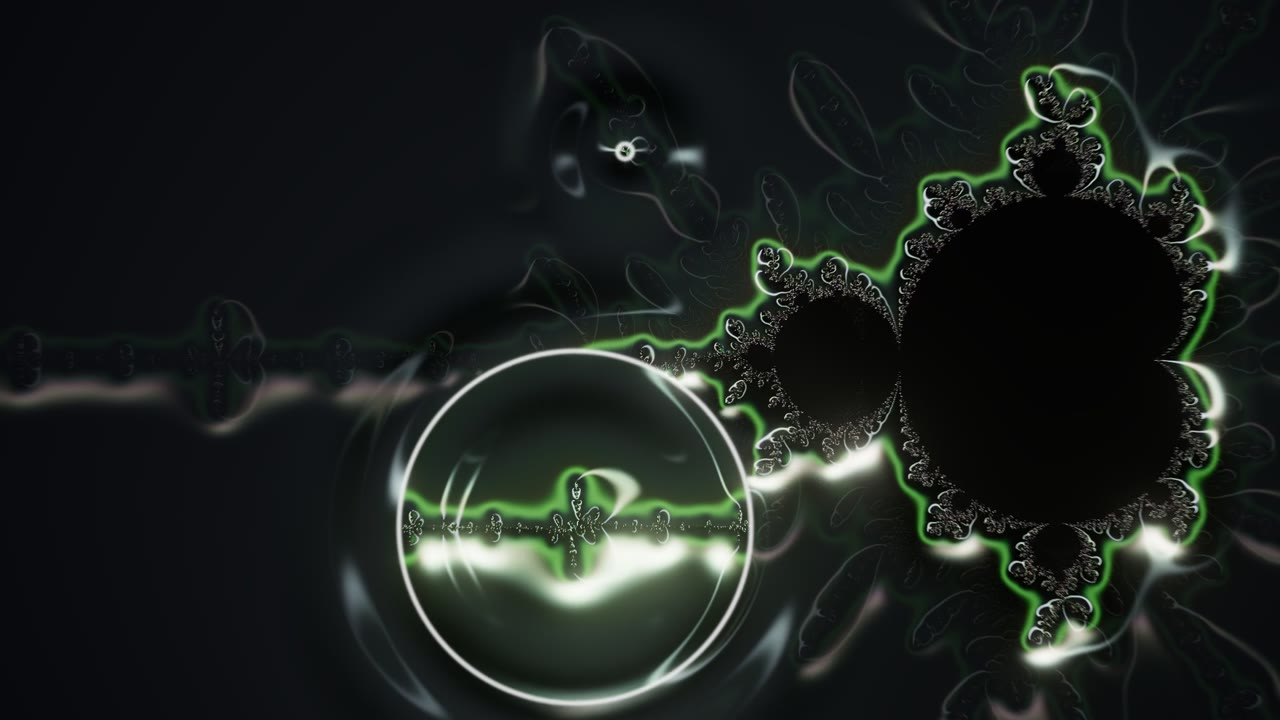
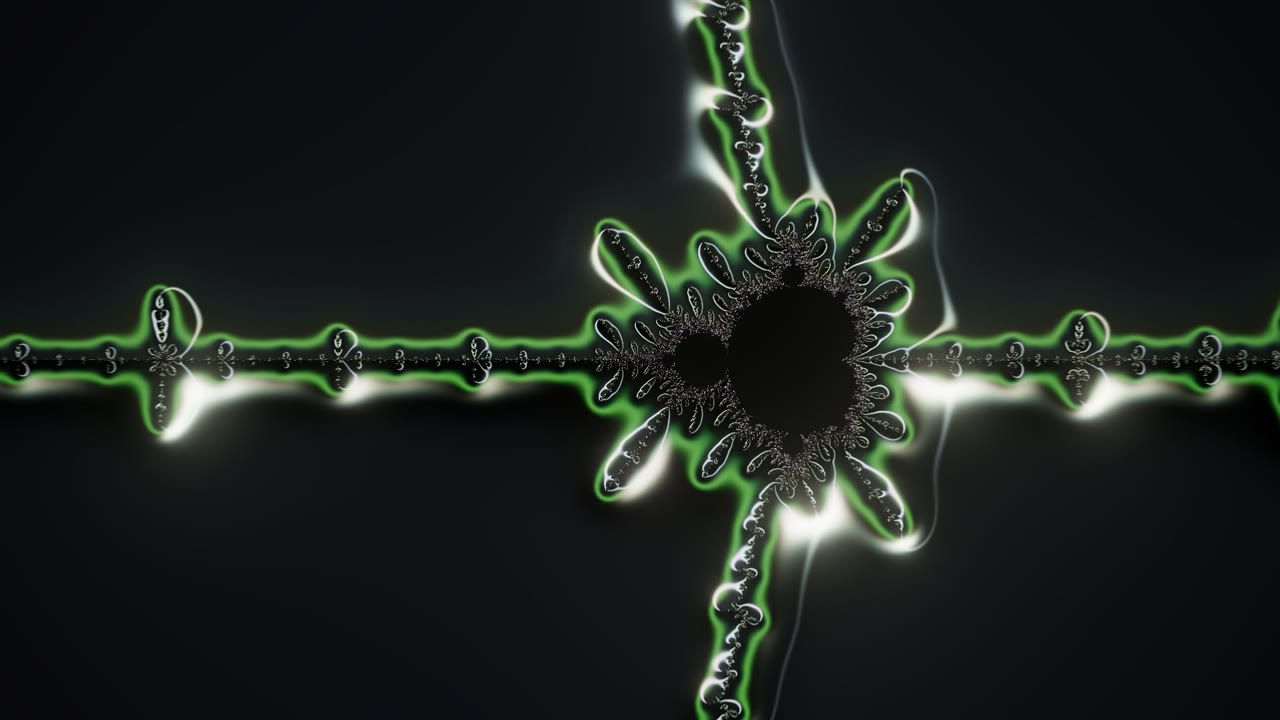
refactor(mizukagami): take the water out
On the user's feedback ("水はダサい"): no kick ripples, no drop windows, no
rolling waves or membrane wobble. Kicks flash the metal rims instead (Pulse
knob). The endless dive, the build's dead stop and the drop's fold and
figure/ground swap stay.

diff --git a/works/mizukagami/index.ts b/works/mizukagami/index.ts
@@ -1,10 +1,10 @@
-// MIZUKAGAMI（水鏡）— a liquid mirror that is a fractal, and a fractal that will not let you reach the bottom.
-// The Mandelbrot set as mercury: flat and dark far away, a meniscus rising at the set's edge, slow waves rolling in.
+// MIZUKAGAMI（水鏡）— a mirror that is a fractal, and a fractal that will not let you reach the bottom.
+// The Mandelbrot set as polished metal: flat and black far away, a rim rising at the set's edge that catches grazing
+// light. (The water — ripples, drop windows, rolling waves — was taken out on the user's feedback: 「水はダサい」.)
 // Devices for prediction error (docs/philosophy.md):
 // · An endless dive. The period-3 mini-brot on the needle is the set again, scaled by 1/K. Zooming at the fixed point
 //   of that similarity returns to the same picture every K×, so the bottom never comes (a cross-fade hides the residue).
-// · Drops open windows to the other side: where a drop lands at c, its ring shows the Julia set of c (the Mandelbrot set
-//   is the map of all Julia sets) — then the ring runs backwards and closes, water that un-splashes.
+// · Light on the beat: kicks flash the rims, the lights turn with the mids.
 // · Stillness after motion: the build stops the dive, and the still frame seems to flow backwards (motion aftereffect).
 // · The drop turns the world inside out: a Möbius fold pulls infinity onto the screen and figure and ground swap —
 //   the black world becomes light, the light becomes void.
@@ -12,8 +12,8 @@
 import { HalfFloatType, MeshBasicNodeMaterial, QuadMesh, RenderPipeline, RenderTarget } from 'three/webgpu';
 import type { Node } from 'three/webgpu';
 import {
-  Break, Fn, If, Loop, clamp, cos, exp, float, int, length, log, log2, mix, mx_noise_vec3, normalize, pow, screenUV, select,
-  sin, smoothstep, texture, uniform, uv, vec2, vec3, vec4,
+  Break, Fn, If, Loop, clamp, cos, exp, float, int, log, log2, mix, normalize, pow, screenUV, select, sin, smoothstep, texture,
+  uniform, uv, vec2, vec3, vec4,
 } from 'three/tsl';
 import { bloom } from 'three/addons/tsl/display/BloomNode.js';
 import { defineGpuInstrument } from '../../src/engine/gpu/types';
@@ -25,22 +25,21 @@ const manifest: InstrumentManifest = {
   id: 'mizukagami',
   name: 'MIZUKAGAMI',
   nameJa: '水鏡',
-  mood: ['liquid', 'mirror', 'fractal'],
+  mood: ['mirror', 'metal', 'fractal'],
   energy: [0.15, 1],
   tempo: 'sync',
   macros: [
     { id: 'speed', label: 'Dive', default: 0.4, mod: { source: 'level', amount: 0.2 } },
-    { id: 'ripple', label: 'Ripple', default: 0.5, mod: { source: 'low', amount: 0.25 } },
-    { id: 'drops', label: 'Drops', default: 0.5 },
-    { id: 'relief', label: 'Meniscus', default: 0.5 },
+    { id: 'relief', label: 'Edge', default: 0.5 },
+    { id: 'pulse', label: 'Pulse', default: 0.5, mod: { source: 'low', amount: 0.2 } },
     { id: 'iris', label: 'Iridescence', default: 0.25, mod: { source: 'high', amount: 0.2 } },
     { id: 'light', label: 'Light', default: 0.5 },
     { id: 'blur', label: 'Motion', default: 0.45 },
     { id: 'glow', label: 'Glow', default: 0.4 },
   ],
   presets: {
-    still: { speed: 0.12, ripple: 0.3, drops: 0.3, relief: 0.45, iris: 0.15, light: 0.4, blur: 0.2, glow: 0.3 },
-    storm: { speed: 0.8, ripple: 0.85, drops: 0.9, relief: 0.6, iris: 0.5, light: 0.7, blur: 0.75, glow: 0.6 },
+    still: { speed: 0.12, relief: 0.45, pulse: 0.2, iris: 0.15, light: 0.4, blur: 0.2, glow: 0.3 },
+    storm: { speed: 0.8, relief: 0.6, pulse: 0.9, iris: 0.5, light: 0.7, blur: 0.75, glow: 0.6 },
   },
 };
 
@@ -49,9 +48,6 @@ const K = 61.7449018709541;
 const F = -1.7829245737238786; // its fixed point: zooming here is self-similar
 const SPAN = 2.6; // complex height of the frame at zoom 1 (the whole set, off to the right: negative space on the left)
 const MAXIT = 200;
-const JULIA_SCALE = 1.75; // complex units across a drop window's radius
-const DROPS = 2;
-const RIPPLES = 4;
 
 /** Accent colours per director style (linear): acid green, oil-slick violet, cold blue, white gold. */
 const ACCENTS: [number, number, number][] = [
@@ -77,68 +73,43 @@ export default defineGpuInstrument({
       px: uniform(1 / height), // one pixel in height-normalised units
       zoom: uniform(1),
       blend: uniform(0), // cross-fade to the self-similar frame near the end of a cycle
-      ripple: uniform(0.5),
       relief: uniform(0.5),
       iris: uniform(0.3),
       light: uniform(0.5),
+      pulse: uniform(0), // a kick's flash on the rims, decaying
       accent: uniform(vec3(...ACCENTS[0])),
       lightAngle: uniform(0),
       fold: uniform(vec2(0, 0)), // Möbius fold: w → w / (1 − t·w), t complex
       invert: uniform(0), // figure/ground swap
     };
-    /** Membrane sources: x, y, wave-front radius, amplitude (CPU drives fronts: outward for kicks, in & out for drops). */
-    const waves = Array.from({ length: RIPPLES + DROPS }, () => uniform(vec4(0, 0, 0, 0)));
-    /** Drop windows: x, y, radius (0 = closed), and the c whose Julia set they show. */
-    const drops = Array.from({ length: DROPS }, () => ({ at: uniform(vec3(0, 0, 0)), c: uniform(vec2(0, 0)) }));
-
-    /** The membrane: wave packets riding each front plus a slow breathing flow. Returns (∂h/∂x, ∂h/∂y). */
-    const membrane = (q: Node<'vec2'>) => {
-      let g: Node<'vec2'> = vec2(0, 0);
-      for (const s of waves) {
-        const d = q.sub(s.xy);
-        const r = length(d).add(1e-4);
-        const x = r.sub(s.z);
-        const env = s.w.mul(exp(x.mul(7).pow(2).negate()));
-        g = g.add(d.div(r).mul(cos(x.mul(40)).mul(40).mul(env)));
-      }
-      const flow = mx_noise_vec3(vec3(q.mul(1.3), U.time.mul(0.1))).xy.mul(0.35);
-      return g.mul(U.ripple).add(flow.mul(U.ripple.mul(0.6).add(0.2)));
-    };
 
     /** A studio around the mirror: a low key, two strip lights and the accent, all at grazing angles — a flat mirror
-     *  stays black; only the meniscus, the waves and the ripples catch light. */
+     *  stays black; only the rims catch light. */
     const studio = (r: Node<'vec3'>) => {
       const a = U.lightAngle;
-      // the key stays low (grazing): a flat mirror never catches it, only the meniscus and the waves do
       const key = normalize(vec3(cos(a).mul(0.85), sin(a).mul(0.85), 0.32));
       const keyL = exp(float(1).sub(r.dot(key)).mul(-26)).mul(3.2);
       const strip1 = exp(r.y.sub(sin(a.mul(0.7)).mul(0.25).add(0.35)).div(0.045).pow(2).negate()).mul(smoothstep(0.97, 0.55, r.z)).mul(1.5);
       const strip2 = exp(r.x.sub(cos(a.mul(0.5)).mul(0.4)).div(0.03).pow(2).negate()).mul(smoothstep(0.97, 0.6, r.z)).mul(0.8);
       const base = mix(float(0.003), float(0.035), smoothstep(-0.3, 1, r.y.add(r.z.mul(0.5))));
       const graze = exp(r.z.div(0.16).pow(2).negate());
-      const white = keyL.add(strip1).add(strip2).mul(U.light.mul(1.2).add(0.4));
-      return vec3(base).add(vec3(white)).add(U.accent.mul(graze).mul(0.5));
+      const white = keyL.add(strip1).add(strip2).mul(U.light.mul(1.2).add(0.4)).mul(U.pulse.mul(1.8).add(1));
+      return vec3(base).add(vec3(white)).add(U.accent.mul(graze).mul(U.pulse.mul(1.2).add(0.5)));
     };
     const film = (t: Node<'float'>) =>
       vec3(0.5).add(vec3(cos(t.mul(6.283)), cos(t.add(0.33).mul(6.283)), cos(t.add(0.67).mul(6.283))).mul(0.5));
     const reflectUp = (n: Node<'vec3'>) => vec3(n.x.mul(n.z).mul(2), n.y.mul(n.z).mul(2), n.z.mul(n.z).mul(2).sub(1));
 
-    /**
-     * One escape-time sample, Mandelbrot (z₀ = 0, c = p) or Julia (z₀ = p, c = k): returns (normal direction u = z/z′,
-     * smooth iteration μ, distance to the set in complex units, or −1 inside).
-     */
-    const sample = Fn(([p, k, julia]: [Node<'vec2'>, Node<'vec2'>, Node<'float'>]) => {
-      const isJ = julia.greaterThan(0.5);
-      const c = select(isJ, k, p);
-      const zr = select(isJ, p.x, float(0)).toVar();
-      const zi = select(isJ, p.y, float(0)).toVar();
-      const dr = select(isJ, float(1), float(0)).toVar();
+    /** One escape-time sample at c: (normal direction u = z/z′, smooth iteration μ, distance to the set, or −1 inside). */
+    const sample = Fn(([c]: [Node<'vec2'>]) => {
+      const zr = float(0).toVar();
+      const zi = float(0).toVar();
+      const dr = float(0).toVar();
       const di = float(0).toVar();
       const it = float(0).toVar();
       const esc = float(0).toVar();
-      const one = select(isJ, float(0), float(1));
       Loop({ start: int(0), end: int(MAXIT), type: 'int', condition: '<' }, () => {
-        const ndr = zr.mul(dr).sub(zi.mul(di)).mul(2).add(one).toVar();
+        const ndr = zr.mul(dr).sub(zi.mul(di)).mul(2).add(1).toVar();
         const ndi = zr.mul(di).add(zi.mul(dr)).mul(2).toVar();
         const nzr = zr.mul(zr).sub(zi.mul(zi)).add(c.x).toVar();
         const nzi = zr.mul(zi).mul(2).add(c.y).toVar();
@@ -160,25 +131,23 @@ export default defineGpuInstrument({
       return vec4(u, mu, dist);
     });
 
-    /** Mercury: a meniscus at the set's edge (sized in screen heights so it keeps its shape while we zoom). */
-    const shade = (s: Node<'vec4'>, perHeight: Node<'float'>, mem: Node<'vec2'>, tint: Node<'vec3'>) => {
+    /** Polished metal: a rim at the set's edge (sized in screen heights so it keeps its shape while we zoom). */
+    const shade = (s: Node<'vec4'>, perHeight: Node<'float'>) => {
       const esc = s.w.greaterThan(0);
       const dn = s.w.div(perHeight).div(0.03);
       const rim = exp(dn.negate()).mul(2.4);
-      const roll = sin(s.z.mul(0.7).sub(U.time.mul(1.1))).mul(0.2).mul(exp(dn.mul(-0.1)));
-      const tilt = rim.add(roll).mul(U.relief.mul(1.2).add(0.2));
+      const tilt = rim.mul(U.relief.mul(1.2).add(0.2));
       const nOut = normalize(vec3(s.xy.mul(tilt), 1));
-      const n = normalize(select(esc, nOut, vec3(0, 0, 1)).add(vec3(mem.mul(0.04), 0)));
+      const n = select(esc, nOut, vec3(0, 0, 1));
       const env = studio(reflectUp(n));
       const fres = float(0.86).add(pow(float(1).sub(n.z), 5).mul(0.14));
       const film1 = mix(vec3(1), film(float(1).sub(n.z).mul(2.2).add(s.z.mul(0.015)).add(U.time.mul(0.03))), U.iris);
-      const outside = env.mul(fres).mul(film1).mul(tint);
+      const outside = env.mul(fres).mul(film1);
       const pool = env.mul(0.2);
-      // figure/ground swap: the world inside lights up, the outside drains to a black mirror with bright rims
-      const swell = mx_noise_vec3(vec3(s.xy.mul(0.0).add(mem.mul(0.6)), U.time.mul(0.35))).xy;
-      const flatN = normalize(vec3(mem.mul(0.3).add(swell.mul(0.45)), 1));
-      const insideLit = studio(reflectUp(flatN)).mul(1.6).mul(film(flatN.x.add(flatN.y).mul(1.5).add(U.time.mul(0.05))).mul(0.5).add(0.5)).add(U.accent.mul(0.08));
-      const outsideDark = env.mul(rim.mul(0.4)).mul(tint);
+      // figure/ground swap: the world inside lights up (lights drifting across it), the outside drains to black rims
+      const drift = normalize(vec3(sin(U.time.mul(0.7)).mul(0.18), cos(U.time.mul(0.5)).mul(0.18), 1));
+      const insideLit = studio(reflectUp(drift)).mul(1.6).mul(film(drift.x.add(drift.y).mul(1.5).add(U.time.mul(0.05))).mul(0.5).add(0.5)).add(U.accent.mul(0.08));
+      const outsideDark = env.mul(rim.mul(0.4));
       return mix(select(esc, outside, pool), select(esc, outsideDark, insideLit), U.invert);
     };
 
@@ -186,39 +155,23 @@ export default defineGpuInstrument({
     const mat = new MeshBasicNodeMaterial();
     mat.colorNode = Fn(() => {
       const q = vec2(uv().x.sub(0.5).mul(U.aspect), float(0.5).sub(uv().y)); // y-up, height-normalised
-      const mem = membrane(q);
       // the fold: w / (1 − t·w) — infinity comes onto the screen at 1/t
       const t = U.fold;
       const den = vec2(float(1).sub(t.x.mul(q.x)).add(t.y.mul(q.y)), t.x.mul(q.y).add(t.y.mul(q.x)).negate());
       const dd = den.dot(den).add(1e-6);
       const w = vec2(q.x.mul(den.x).add(q.y.mul(den.y)), q.y.mul(den.x).sub(q.x.mul(den.y))).div(dd);
-      const lens = w.add(mem.mul(0.0012));
       const off = U.px.mul(0.25);
       const perA = float(SPAN).div(U.zoom);
-      const zero = vec2(0, 0);
       const mand = (per: Node<'float'>) => {
-        const a = sample(vec2(F, 0).add(lens.add(vec2(off, off)).mul(per)), zero, float(0));
-        const b = sample(vec2(F, 0).add(lens.sub(vec2(off, off)).mul(per)), zero, float(0));
-        return shade(a, per, mem, vec3(1)).add(shade(b, per, mem, vec3(1))).mul(0.5);
+        const a = sample(vec2(F, 0).add(w.add(vec2(off, off)).mul(per)));
+        const b = sample(vec2(F, 0).add(w.sub(vec2(off, off)).mul(per)));
+        return shade(a, per).add(shade(b, per)).mul(0.5);
       };
       const col = mand(perA).toVar();
       // near the end of a cycle, fade to the frame K× back (the same picture, one level up): no seam
       If(U.blend.greaterThan(0.001), () => {
         col.assign(mix(col, mand(perA.mul(K)), U.blend));
       });
-      // drop windows: the Julia set of the c where the drop fell, inside a ring that opens and closes again
-      for (const d of drops) {
-        const dq = q.sub(d.at.xy);
-        const r = length(dq);
-        If(r.lessThan(d.at.z), () => {
-          const per = float(JULIA_SCALE).div(0.3);
-          const s = sample(dq.mul(per).add(mem.mul(0.002)), d.c, float(1));
-          const otherSide = mix(vec3(1), U.accent.mul(0.6).add(0.55), 0.35);
-          col.assign(shade(s, per, mem, otherSide));
-        });
-        const lip = exp(r.sub(d.at.z).div(U.px.mul(3)).pow(2).negate()).mul(d.at.z.greaterThan(0.001).select(0.9, 0));
-        col.addAssign(vec3(lip).mul(U.light.add(0.3)));
-      }
       return vec4(col, 1);
     })();
     const quad = new QuadMesh(mat);
@@ -248,27 +201,14 @@ export default defineGpuInstrument({
     let rate = 0.1;
     let surge = 0;
     let rush = 0;
+    let pulse = 0;
     let lastDrops = 0;
     let lastKickAge = 99;
-    let lastBar = -1;
     let foldAngle = 0;
     let invertT = 0;
     let dropAt = -99;
-    let nextRipple = 0;
-    let nextDrop = 0;
     let seed = 7;
     const rnd = () => ((seed = (seed * 1664525 + 1013904223) >>> 0) / 4294967296);
-    const rip = Array.from({ length: RIPPLES }, () => ({ x: 0, y: 0, t0: -99, amp: 0 }));
-    const win = Array.from({ length: DROPS }, () => ({ x: 0, y: 0, t0: -99, size: 0, hold: 1 }));
-
-    /** A drop lands at (x, y): remembers the c under it, whose Julia set its window will show. */
-    function drop(x: number, y: number, t: number, size: number, hold: number) {
-      const k = nextDrop;
-      nextDrop = (nextDrop + 1) % DROPS;
-      win[k] = { x, y, t0: t, size, hold };
-      const per = SPAN / Math.exp(lnz);
-      put(drops[k].c, F + x * per, y * per);
-    }
 
     return {
       render(frame, target) {
@@ -283,9 +223,6 @@ export default defineGpuInstrument({
         lastKickAge = d.kickAge;
         const dropped = d.drops !== lastDrops;
         lastDrops = d.drops;
-        const bar = Math.floor(s.beats / 4);
-        const newBar = bar !== lastBar;
-        lastBar = bar;
 
         // ---- the dive: a rate that only eases; a build stops it dead (stillness after motion); calm exhales
         const energy = Math.min(1, s.level * 0.5 + s.low * 0.5);
@@ -294,12 +231,7 @@ export default defineGpuInstrument({
         rate += (goal - rate) * (1 - Math.exp(-dt / (building ? 0.25 : 0.8)));
         if (kickHit) {
           surge += 0.06 + m[0] * 0.18;
-          rip[nextRipple] = { x: (rnd() - 0.5) * aspect * 0.9, y: (rnd() - 0.5) * 0.9, t0: s.time, amp: 0.16 + s.low * 0.26 };
-          nextRipple = (nextRipple + 1) % RIPPLES;
-        }
-        // drops on the downbeat of some bars (more with the knob), near the set's edge
-        if (newBar && !building && rnd() < 0.2 + m[2] * 0.6) {
-          drop((rnd() - 0.2) * aspect * 0.55, (rnd() - 0.5) * 0.6, s.time, 0.16 + rnd() * 0.14, 1 + Math.floor(rnd() * 3));
+          pulse = Math.max(pulse, m[2] * (0.6 + s.low * 0.6));
         }
         if (dropped) {
           rush += 1.2 + m[0];
@@ -307,10 +239,10 @@ export default defineGpuInstrument({
           foldAngle = rnd() * Math.PI * 2;
           P.flash.value = 0.3;
           put(U.accent, ...ACCENTS[d.style % ACCENTS.length]);
-          drop(0, 0, s.time, 0.42, 4);
         }
         surge *= Math.exp(-dt / 0.35);
         rush *= Math.exp(-dt / 0.9);
+        pulse *= Math.exp(-dt / 0.16);
         const speed = rate + surge + rush;
         lnz += speed * dt;
         while (lnz >= LNK) lnz -= LNK;
@@ -323,40 +255,22 @@ export default defineGpuInstrument({
         foldAngle += dt * 0.3;
         invertT += ((since >= 0 && since < twoBars * 0.75 ? 1 : 0) - invertT) * (1 - Math.exp(-dt / 0.18));
 
-        // ---- membrane sources: kick rings travel outward; drop rims open, hold, then run backwards
-        rip.forEach((r, k) => {
-          const age = s.time - r.t0;
-          put(waves[k], r.x, r.y, age * 0.45, age > 0 ? r.amp * Math.exp(-age * 1.3) : 0);
-        });
-        win.forEach((w, k) => {
-          const age = s.time - w.t0;
-          const open = beatSec * 1.2;
-          const hold = beatSec * w.hold;
-          const close = beatSec * 2;
-          let radius = 0;
-          if (age >= 0 && age < open) radius = w.size * ease.out(age / open);
-          else if (age >= open && age < open + hold) radius = w.size;
-          else if (age >= open + hold && age < open + hold + close) radius = w.size * (1 - ease.inOut((age - open - hold) / close));
-          put(drops[k].at, w.x, w.y, radius);
-          put(waves[RIPPLES + k], w.x, w.y, radius, radius > 0 ? 0.35 : 0);
-        });
-
         // ---- uniforms
         U.time.value = s.time;
         U.aspect.value = aspect;
         U.px.value = 1 / target.height;
         U.zoom.value = Math.exp(lnz);
         U.blend.value = rate >= 0 ? ease.inOut((lnz / LNK - 0.82) / 0.18) : 0;
-        U.ripple.value = m[1] * (1 + s.tension * 0.5);
-        U.relief.value = m[3];
-        U.iris.value = m[4];
-        U.light.value = m[5];
-        U.lightAngle.value = Number(U.lightAngle.value) - dt * (0.06 + s.mid * 0.15); // turns against the waves
+        U.relief.value = m[1];
+        U.pulse.value = pulse;
+        U.iris.value = m[3];
+        U.light.value = m[4];
+        U.lightAngle.value = Number(U.lightAngle.value) - dt * (0.06 + s.mid * 0.15);
         put(U.fold, Math.cos(foldAngle) * env * 0.9, Math.sin(foldAngle) * env * 0.9);
         U.invert.value = invertT;
         P.speed.value = speed;
-        P.blur.value = m[6];
-        P.glow.value = 0.15 + m[7] * 0.7;
+        P.blur.value = m[5];
+        P.glow.value = 0.15 + m[6] * 0.7;
         P.flash.value = Number(P.flash.value) * Math.exp(-dt / 0.12);
 
         renderer.setRenderTarget(final);

diff --git a/works/mizukagami/NOTES.md b/works/mizukagami/NOTES.md
@@ -27,6 +27,10 @@ Accent per director style: acid green, oil-slick violet, cold blue, white gold (
   「ブラウザダサいからやめよう。ただ水の感じとかはいいからそういう表現をフラクタルと掛け合わせて頭がバグる映像体験を作りたい」.
   Browser/monitor levels removed; the liquid mirror stays and the recursion became the fractal's own self-similarity.
 
+- 2026-10-08 · 「水はダサいから水一度取り外そう」 → removed the kick ripples, the drop windows (Julia rings), the rolling
+  waves and the membrane wobble. Kicks now flash the rims instead (Pulse knob). Kept: the endless dive, the build's
+  dead stop, the drop's fold and figure/ground swap, the metal rims.
+
 ## Next
 
 - The inverted (inside-lit) state is brief and could be richer.
